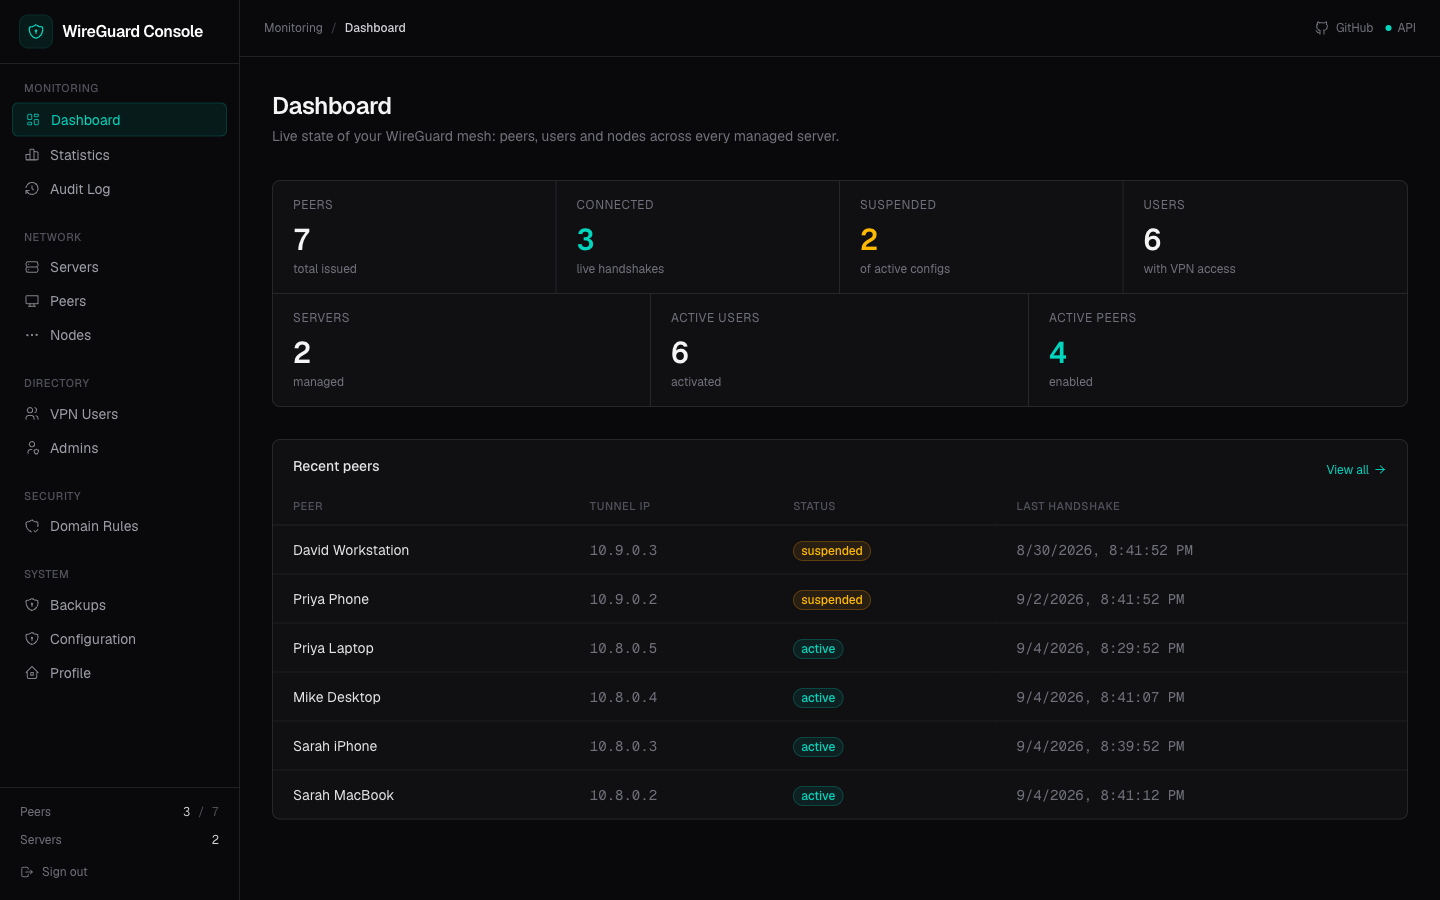
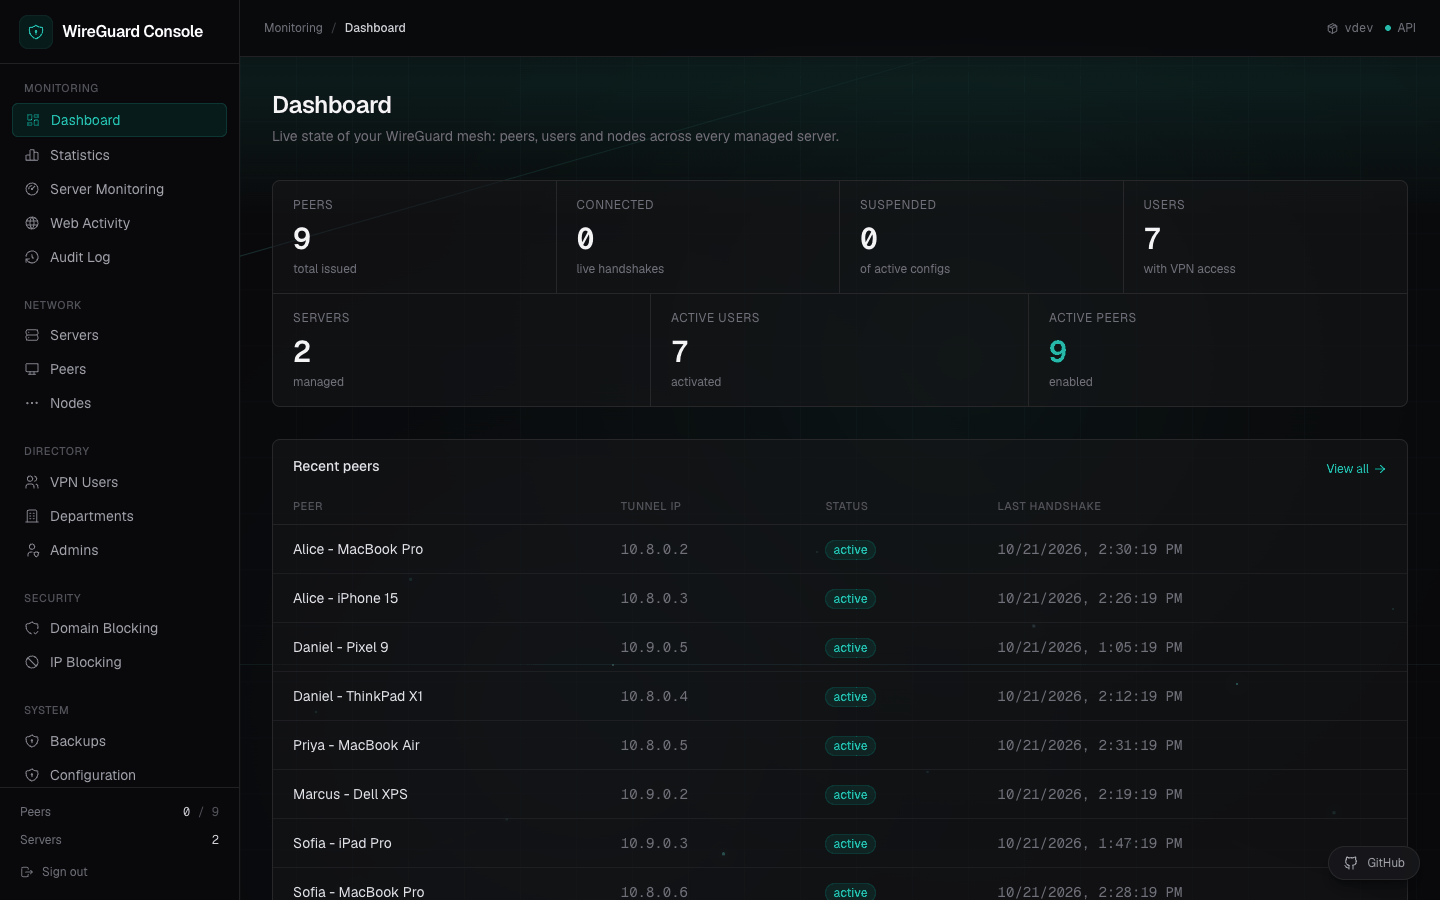
docs: refresh README screenshots, add login and claim pages
Retake dashboard/statistics/peers/users screenshots against the current UI (departments, forced 2FA) and add two new screens: the login page and the VPN-user claim page.

diff --git a/README.md b/README.md
@@ -7,22 +7,32 @@ A self-hosted web console for issuing, monitoring, and revoking company WireGuar
 <table>
   <tr>
     <td align="center" width="50%">
-      <img src="docs/demo/dashboard.png" alt="Dashboard" width="100%" />
-      <br /><em>Dashboard — live KPIs and recent peers</em>
+      <img src="docs/demo/login.png" alt="Login" width="100%" />
+      <br /><em>Login — self-hosted sign-in with mandatory 2FA for admins</em>
     </td>
     <td align="center" width="50%">
-      <img src="docs/demo/statistics.png" alt="Statistics" width="100%" />
-      <br /><em>Statistics — traffic chart, top peers and usage report</em>
+      <img src="docs/demo/dashboard.png" alt="Dashboard" width="100%" />
+      <br /><em>Dashboard — live KPIs and recent peers</em>
     </td>
   </tr>
   <tr>
     <td align="center" width="50%">
+      <img src="docs/demo/statistics.png" alt="Statistics" width="100%" />
+      <br /><em>Statistics — traffic chart, top peers and usage report</em>
+    </td>
+    <td align="center" width="50%">
       <img src="docs/demo/peers.png" alt="Peers" width="100%" />
       <br /><em>Peers — active/suspended devices, config &amp; QR actions</em>
     </td>
+  </tr>
+  <tr>
     <td align="center" width="50%">
       <img src="docs/demo/users.png" alt="VPN Users" width="100%" />
-      <br /><em>VPN Users — status tabs, search and invite</em>
+      <br /><em>VPN Users — status tabs, department tags, search and invite</em>
+    </td>
+    <td align="center" width="50%">
+      <img src="docs/demo/claim.png" alt="Claim page" width="100%" />
+      <br /><em>Claim — VPN users claim their peer config from the emailed link</em>
     </td>
   </tr>
 </table>
